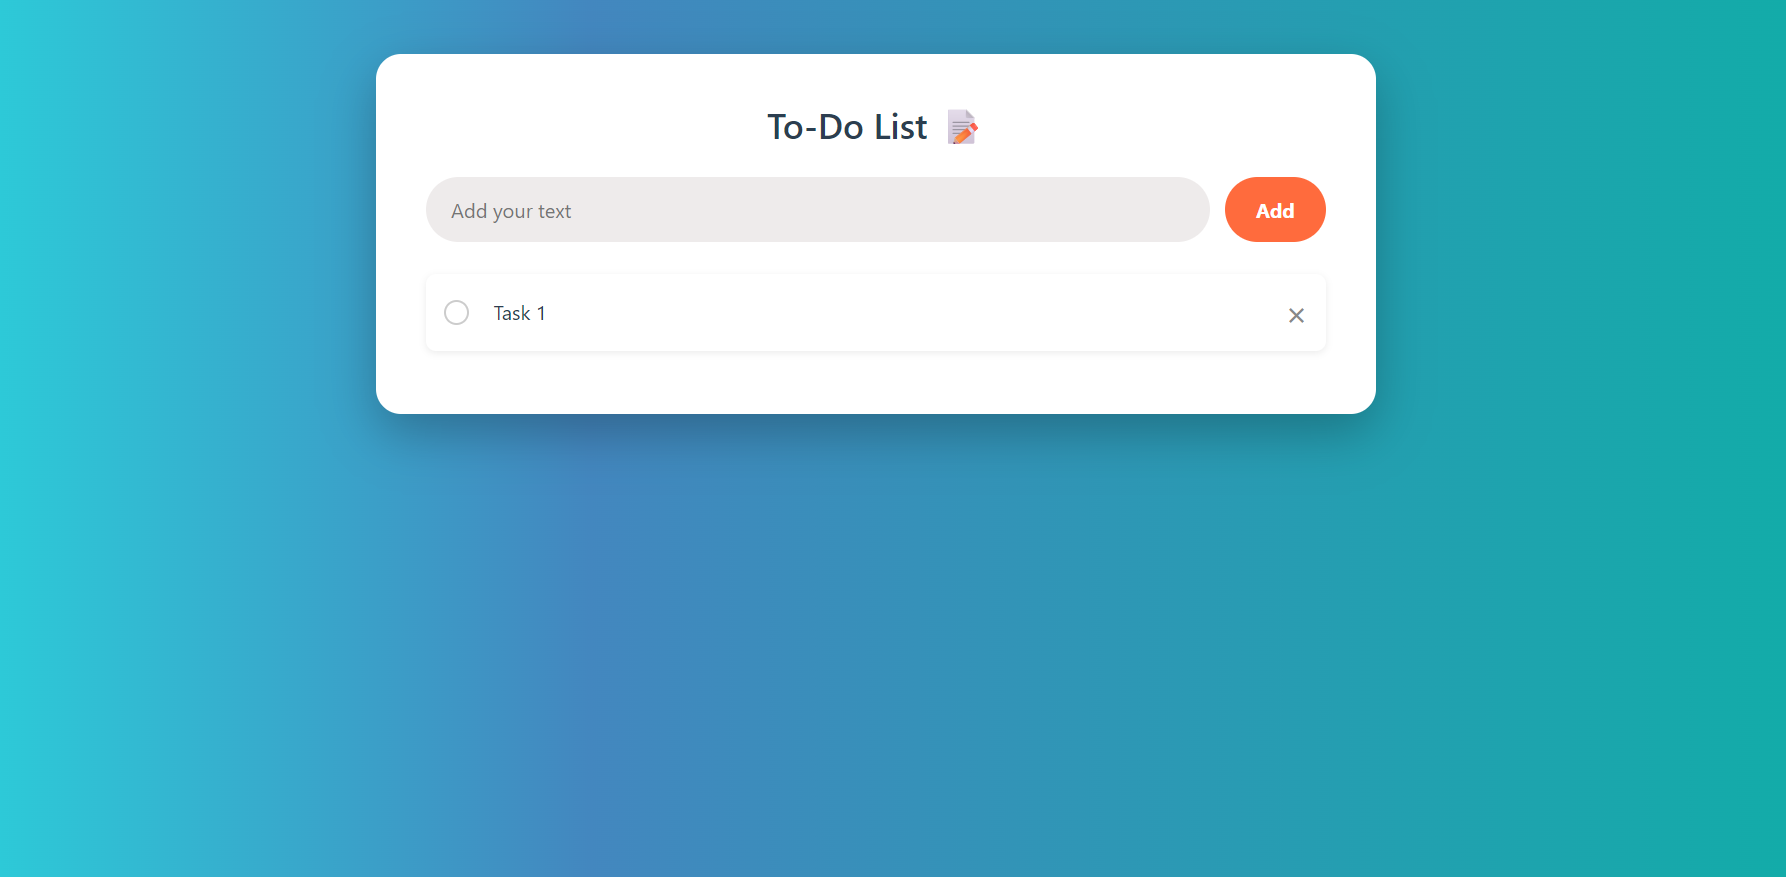
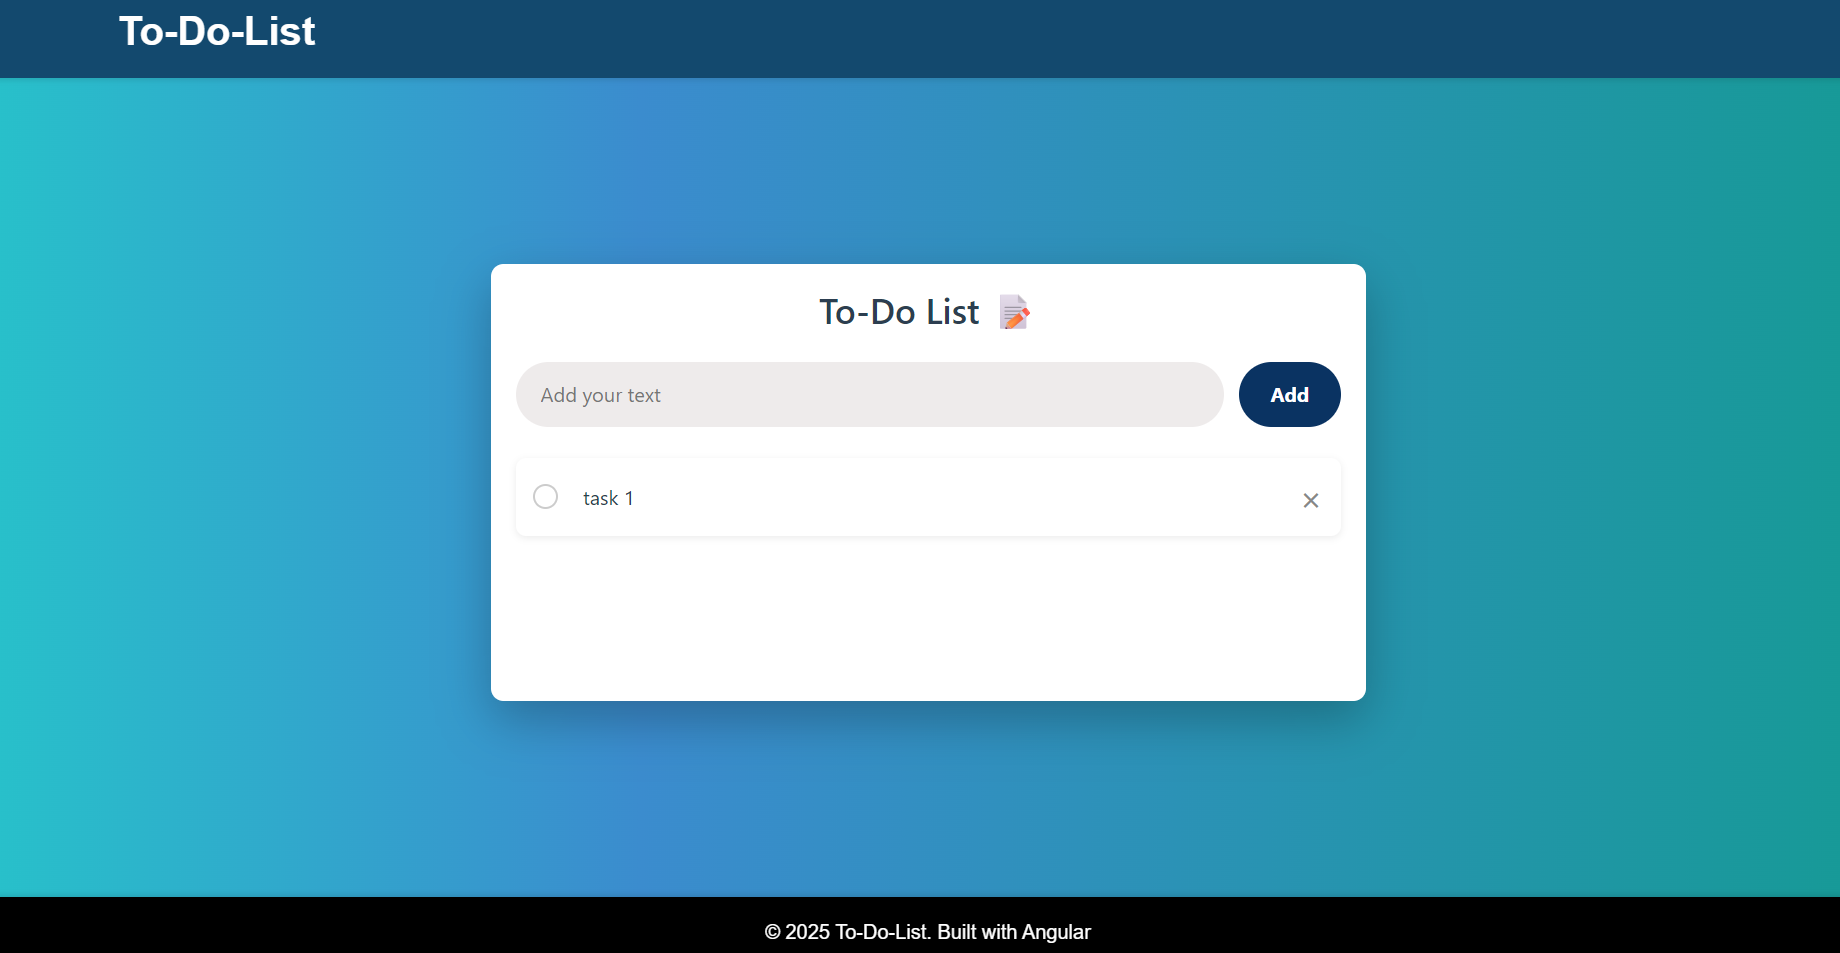
Added screenshots1

diff --git a/src/app/home/home.component.css b/src/app/home/home.component.css
@@ -10,17 +10,18 @@
   max-width: 100%;
   display: flex; 
   justify-content: center; 
-  align-items: flex-start;
-  padding: 80px 20px 20px;
-  background: linear-gradient(90deg, #2ad2db, #4387bf 35%, #11ada8);
+  align-items: center;
+  padding: 30px 10px 20px;
+  background: linear-gradient(90deg, #27c2ca, #3b8cce 35%, #169a96);
 }
 
 .todo {
-  background: #fff;
-  padding: 40px;
-  max-width: 800px;
-  width: 90%;
-  border-radius: 20px;
+  background: #ffffff;
+  padding: 20px;
+  
+  width: 700px;
+  height: 350px;
+  border-radius: 10px;
   box-shadow: 0 15px 40px rgba(0,0,0,0.25);
   color: #2c3e50;
 }
@@ -51,7 +52,7 @@ button {
   padding: 14px 25px;
   border-radius: 30px;
   border: none;
-  background: #ff6b3d;
+  background: #0a3362;
   color: white;
   font-weight: bold;
   cursor: pointer;
@@ -59,7 +60,7 @@ button {
 }
 
 button:hover {
-  background: #d73d0a;
+  background: #183897;
 }
 
 ul {
@@ -96,8 +97,8 @@ li {
 }
 
 .circle.completed {
-  background: #ff6b3d;
-  border-color: #ff6b3d;
+  background: #1d4cd7;
+  border-color: #121080;
 }
 
 .circle.completed::after {

diff --git a/src/app/footer/footer.component.spec.ts b/src/app/footer/footer.component.spec.ts
@@ -1,0 +1,23 @@
+import { ComponentFixture, TestBed } from '@angular/core/testing';
+
+import { FooterComponent } from './footer.component';
+
+describe('FooterComponent', () => {
+  let component: FooterComponent;
+  let fixture: ComponentFixture<FooterComponent>;
+
+  beforeEach(async () => {
+    await TestBed.configureTestingModule({
+      imports: [FooterComponent]
+    })
+    .compileComponents();
+
+    fixture = TestBed.createComponent(FooterComponent);
+    component = fixture.componentInstance;
+    fixture.detectChanges();
+  });
+
+  it('should create', () => {
+    expect(component).toBeTruthy();
+  });
+});

diff --git a/src/app/header/header.component.spec.ts b/src/app/header/header.component.spec.ts
@@ -1,0 +1,23 @@
+import { ComponentFixture, TestBed } from '@angular/core/testing';
+
+import { HeaderComponent } from './header.component';
+
+describe('HeaderComponent', () => {
+  let component: HeaderComponent;
+  let fixture: ComponentFixture<HeaderComponent>;
+
+  beforeEach(async () => {
+    await TestBed.configureTestingModule({
+      imports: [HeaderComponent]
+    })
+    .compileComponents();
+
+    fixture = TestBed.createComponent(HeaderComponent);
+    component = fixture.componentInstance;
+    fixture.detectChanges();
+  });
+
+  it('should create', () => {
+    expect(component).toBeTruthy();
+  });
+});

diff --git a/src/app/app.component.ts b/src/app/app.component.ts
@@ -1,10 +1,12 @@
 import { Component } from '@angular/core';
 import { RouterOutlet } from '@angular/router';
+import { HeaderComponent } from "./header/header.component";
+import { FooterComponent } from './footer/footer.component';
 
 @Component({
   selector: 'app-root',
   standalone: true,
-  imports: [RouterOutlet],
+  imports: [RouterOutlet, HeaderComponent,FooterComponent],
   templateUrl: './app.component.html',
   styleUrl: './app.component.css'
 })

diff --git a/src/app/header/header.component.html b/src/app/header/header.component.html
@@ -1,0 +1,12 @@
+<nav
+  class="navbar navbar-expand-lg navbar-dark"
+  style="background-color: rgb(19, 73, 110)"
+>
+  <div class="container">
+    <a class="navbar-brand fw-bold" style="font-size: 2rem" href="/"
+      >To-Do-List</a
+    >
+    
+    </div>
+  
+</nav>

diff --git a/src/app/home/home.component.ts b/src/app/home/home.component.ts
@@ -1,5 +1,5 @@
 import { Component, OnInit } from '@angular/core';
-import { TaskService } from '../task.service';
+import { TaskService } from '../Services/task.service';
 import { FormsModule } from '@angular/forms';
 import { CommonModule } from '@angular/common';
 

diff --git a/src/app/footer/footer.component.ts b/src/app/footer/footer.component.ts
@@ -1,0 +1,12 @@
+import { Component } from '@angular/core';
+
+@Component({
+  selector: 'app-footer',
+  standalone: true,
+  imports: [],
+  templateUrl: './footer.component.html',
+  styleUrl: './footer.component.css'
+})
+export class FooterComponent {
+
+}

diff --git a/src/app/header/header.component.ts b/src/app/header/header.component.ts
@@ -1,0 +1,12 @@
+import { Component } from '@angular/core';
+
+@Component({
+  selector: 'app-header',
+  standalone: true,
+  imports: [],
+  templateUrl: './header.component.html',
+  styleUrl: './header.component.css'
+})
+export class HeaderComponent {
+
+}

diff --git a/src/app/footer/footer.component.html b/src/app/footer/footer.component.html
@@ -1,0 +1,8 @@
+<footer class="bg-black text-white py-3">
+    <div class="container text-center">
+      <p class="mb-0">
+        © 2025 To-Do-List. Built with Angular 
+      </p>
+    </div>
+  </footer>
+  

diff --git a/src/app/header/header.component.css b/src/app/header/header.component.css
@@ -1,0 +1,8 @@
+nav {
+    position: fixed;
+    top: 0;
+    width: 100%;
+    z-index: 1050;
+    box-shadow: 0 2px 4px rgba(0, 0, 0, 0.1);
+  }
+  

diff --git a/src/app/footer/footer.component.css b/src/app/footer/footer.component.css
@@ -1,0 +1,7 @@
+footer {
+    position: fixed;
+    bottom: 0;
+    width: 100%;
+    box-shadow: 0 -2px 4px rgba(0, 0, 0, 0.1);
+  }
+  

diff --git a/src/app/app.component.html b/src/app/app.component.html
@@ -1,3 +1,4 @@
-
+<app-header></app-header>
 <router-outlet></router-outlet>
 
+<app-footer></app-footer>
